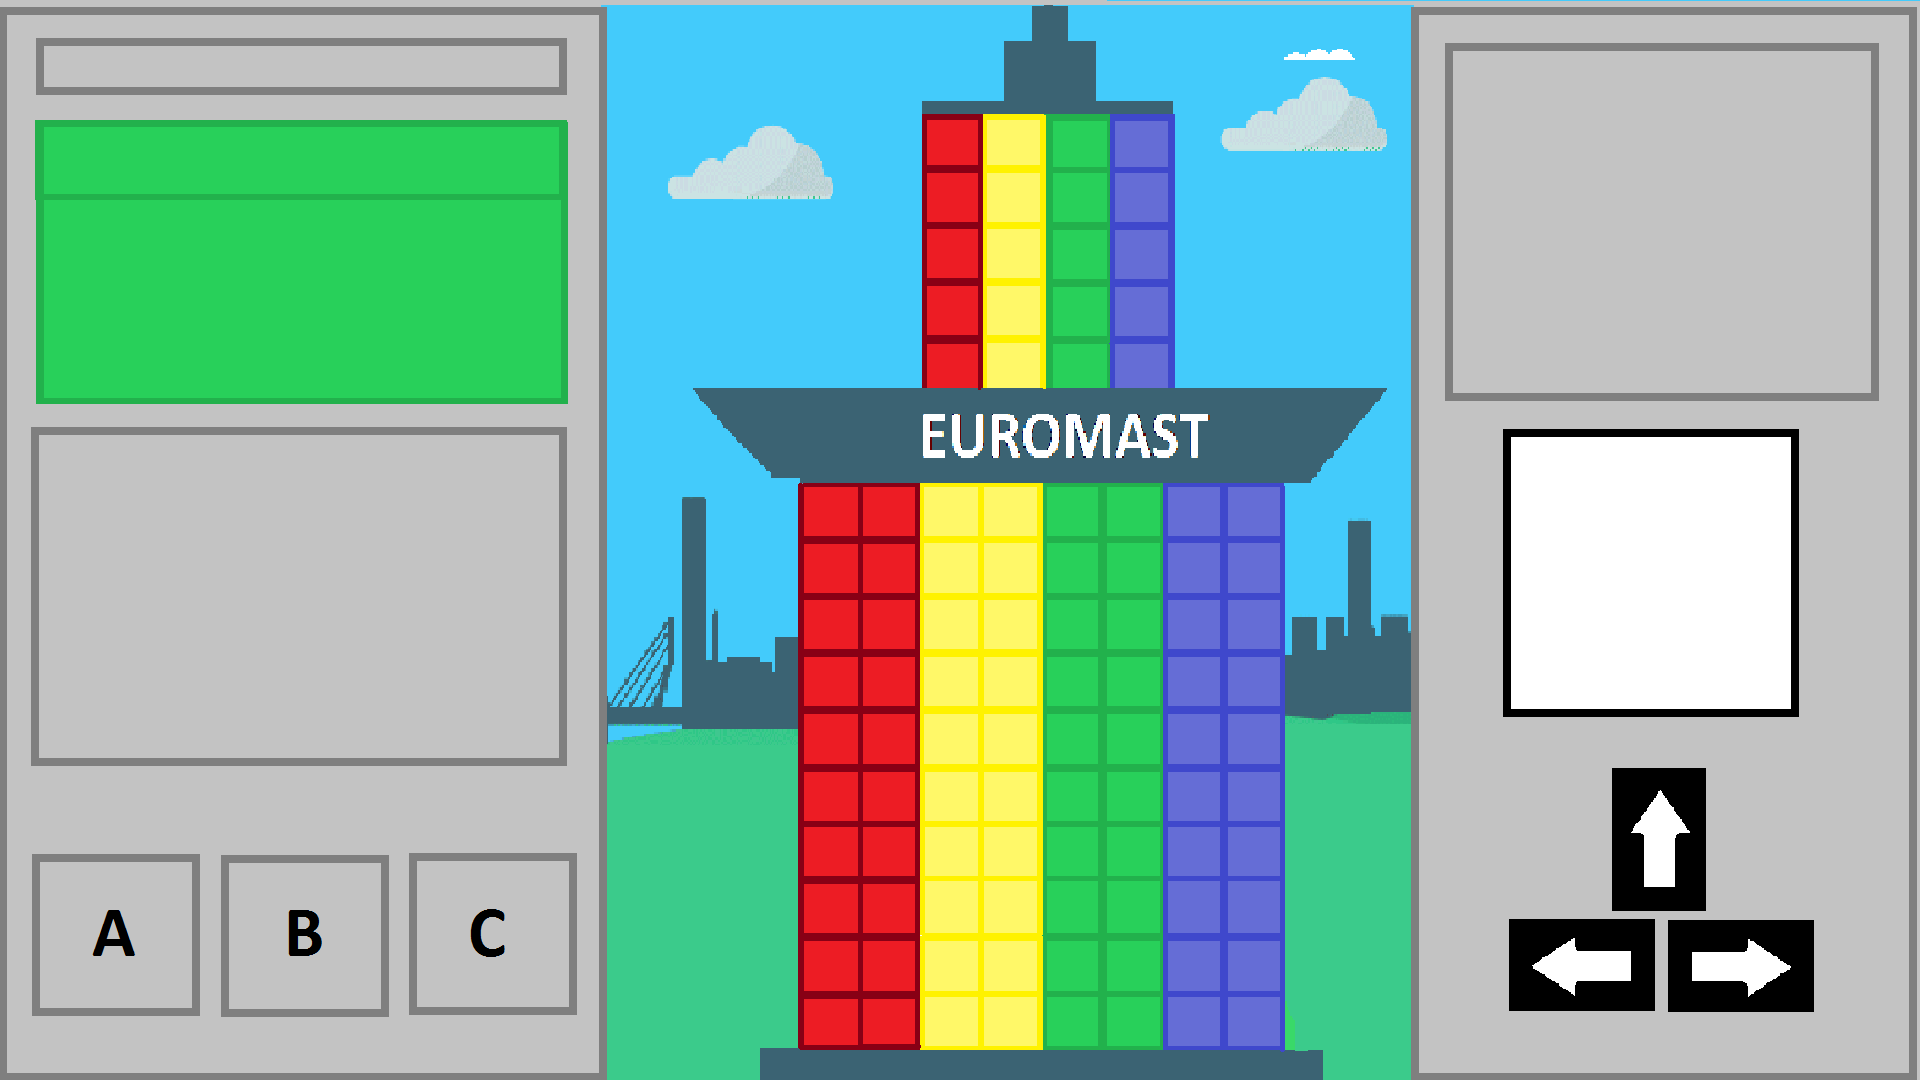
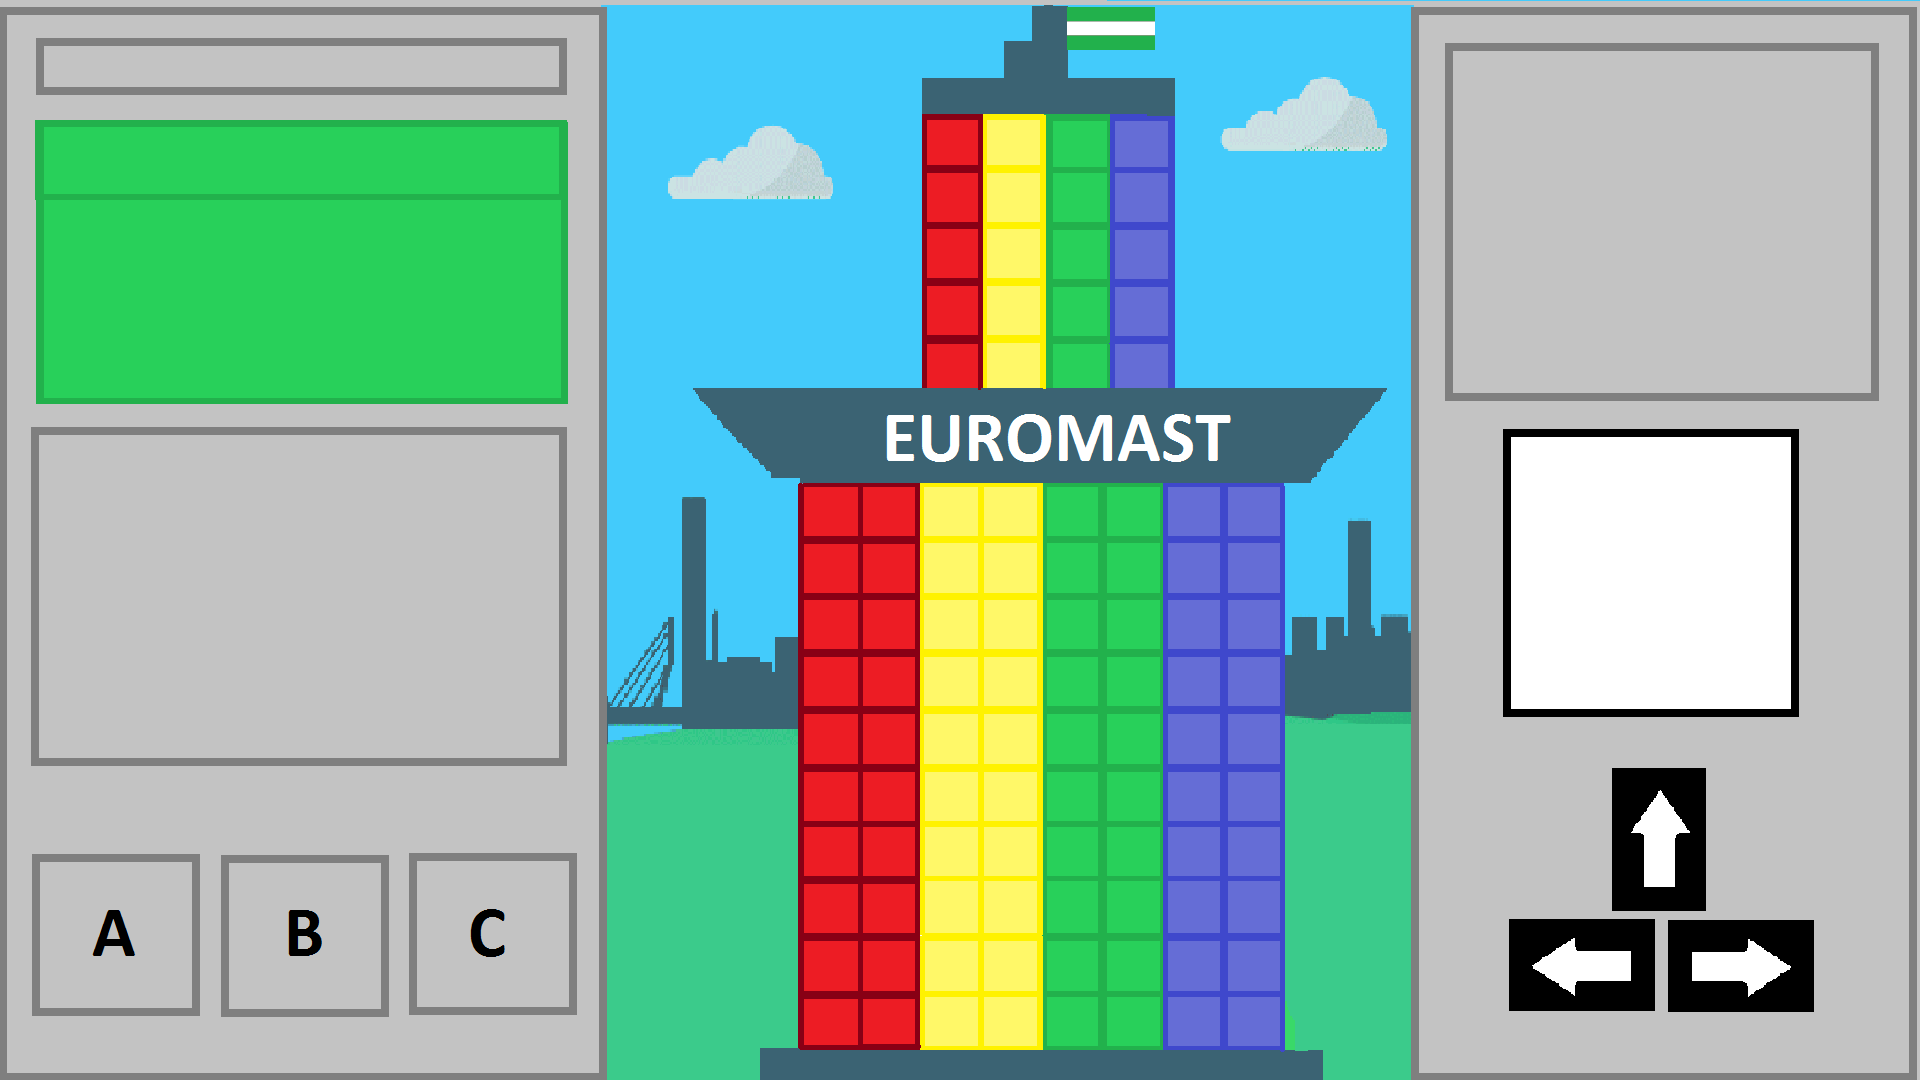
Added: -Added timer for open questions -Added new backgrounds

diff --git a/Working Code/Version 1/textInput.py b/Working Code/Version 1/textInput.py
@@ -1,6 +1,57 @@
 import pygame, pygame.font, pygame.event, pygame.draw, string
 from pygame.locals import *
 
+#Timed, voor openvragen:
+def get_key2(start_ticks, screen, font, greenbar, black):
+    while 1:
+        seconds = (pygame.time.get_ticks() - start_ticks) / 1000
+        if seconds > 50:
+            return K_RETURN
+        elif seconds < 50:
+            screen.blit(greenbar, (7, 320))
+            timerLabel = font.render("Timer: " + str(seconds), True, black)
+            screen.blit(timerLabel, (7, 330))
+            pygame.display.update()
+        event = pygame.event.poll()
+        if event.type == KEYDOWN:
+            return event.key
+        else:
+            pass
+
+def display_box2(screen, message):
+    fontobject = pygame.font.Font(None,30)
+    pygame.draw.rect(screen, (0, 0, 0), (7,380,560,30), 0)
+    pygame.draw.rect(screen, (0, 0, 0), (5,378,564,32), 1)
+    if len(message) != 0:
+        screen.blit(fontobject.render(message, 1, (255,255,255)), (9,382))
+        pygame.display.flip()
+
+def ask2(screen, question, font, greenbar, black):
+    start_ticks = pygame.time.get_ticks()
+    pygame.font.init()
+    current_string = []
+    display_box2(screen, question + ": " + "".join(current_string))
+    while 1:
+        inkey = get_key2(start_ticks, screen, font, greenbar, black)
+        if inkey == K_BACKSPACE:
+            current_string = current_string[0:-1]
+        elif inkey == K_ESCAPE:
+            pygame.quit()
+        elif inkey == K_RETURN:
+            break
+        elif inkey == K_MINUS:
+            current_string.append("_")
+        elif inkey <= 127:
+            x = len(current_string)
+            if x > 27:
+                pass
+            else:
+                current_string.append(chr(inkey))
+        display_box2(screen, question + ": " + "".join(current_string))
+    return "".join(current_string)
+
+
+#Non timed:
 def get_key():
     while 1:
         event = pygame.event.poll()
@@ -35,4 +86,3 @@ def ask(screen, question):
             current_string.append(chr(inkey))
         display_box(screen, question + ": " + "".join(current_string))
     return "".join(current_string)
-

diff --git a/Working Code/Version 1/mainGame.py b/Working Code/Version 1/mainGame.py
@@ -351,7 +351,7 @@ def program(maxp):
                 labelq = font.render(questionList[1], True, black)
                 screen.blit(labelq, (7, 117))
                 if lenq > 2:
-                    label1 = font.render(questionList[2], True, black)
+                    labelq = font.render(questionList[2], True, black)
                     screen.blit(labelq, (7, 134))
         if len1 > 0:
             label1 = font.render(optie1list[0], True, black)
@@ -411,8 +411,7 @@ def program(maxp):
                 pygame.display.update()
 
         while questionOPEN == True:
-            seconds = (pygame.time.get_ticks() - start_ticks) / 1000
-            cpKeuze = ask(screen, "Vul het antwoord in")
+            cpKeuze = ask2(screen, "Antwoord", font, greenbar, black)
             questionOPEN = False
 
 
